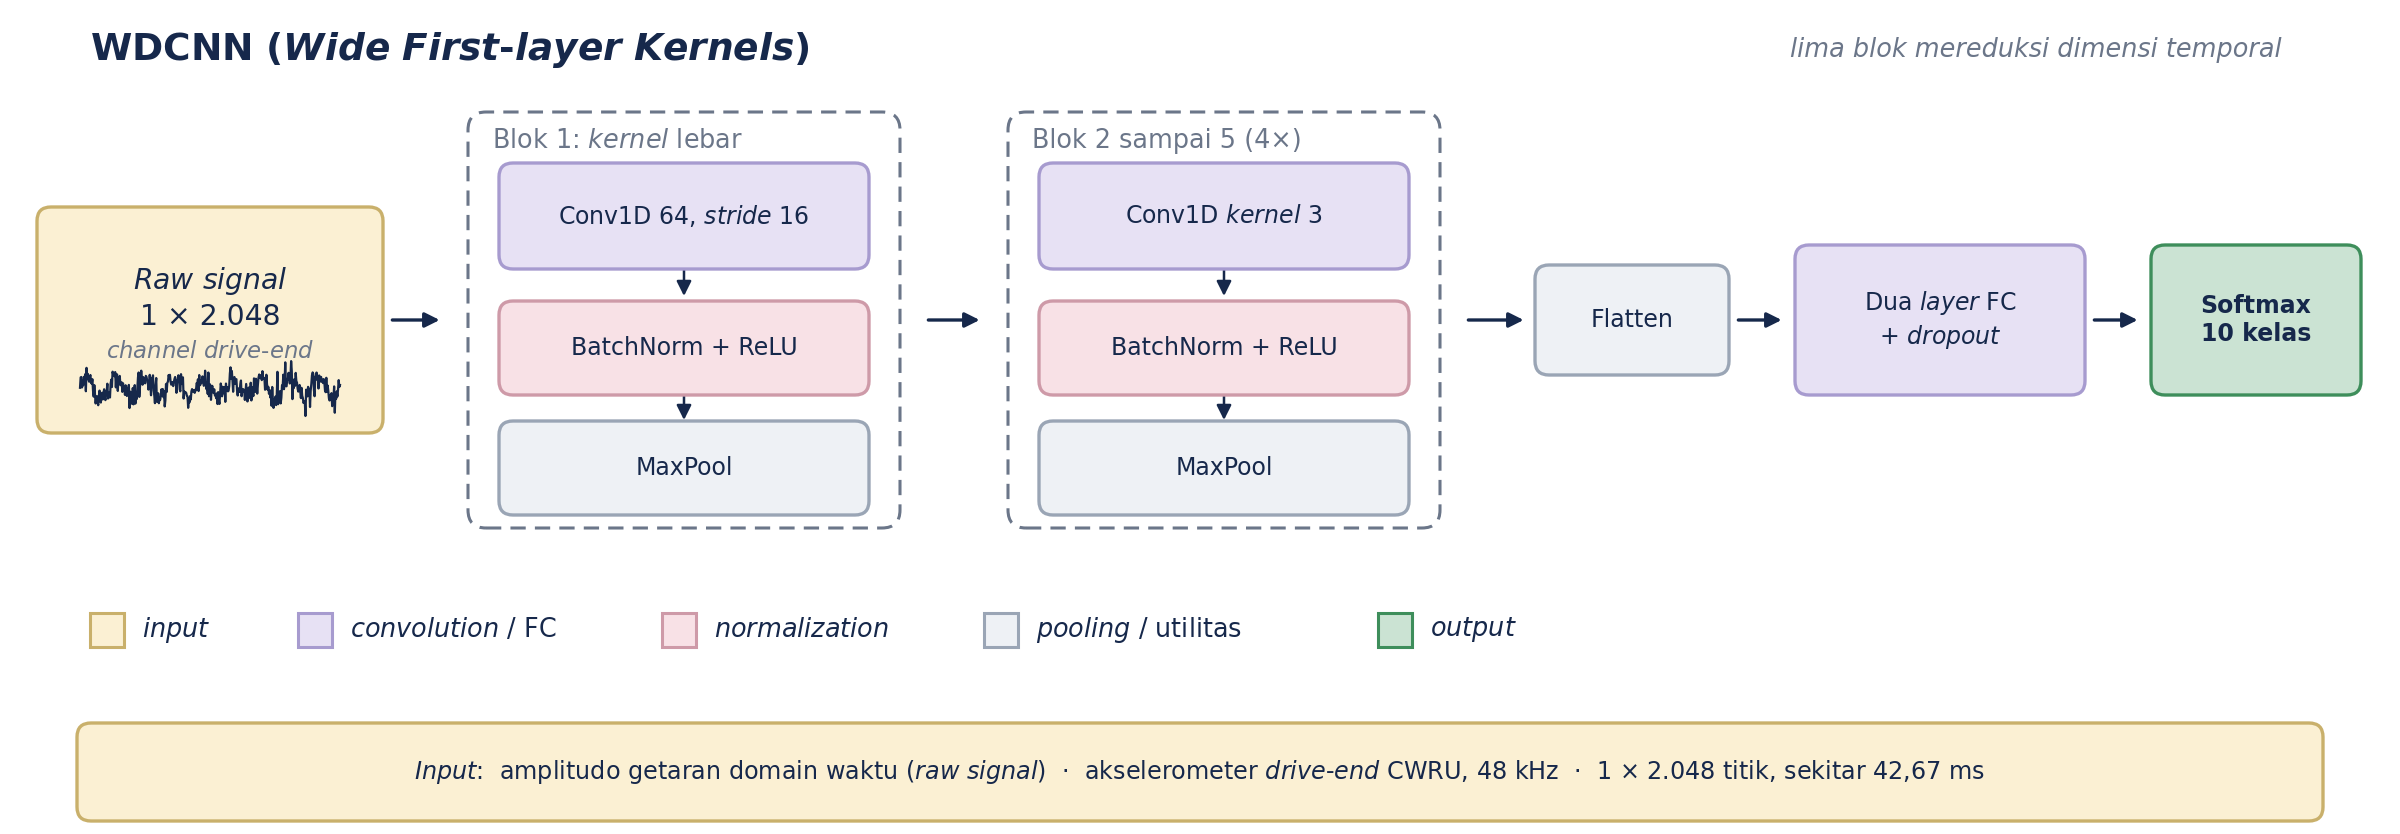
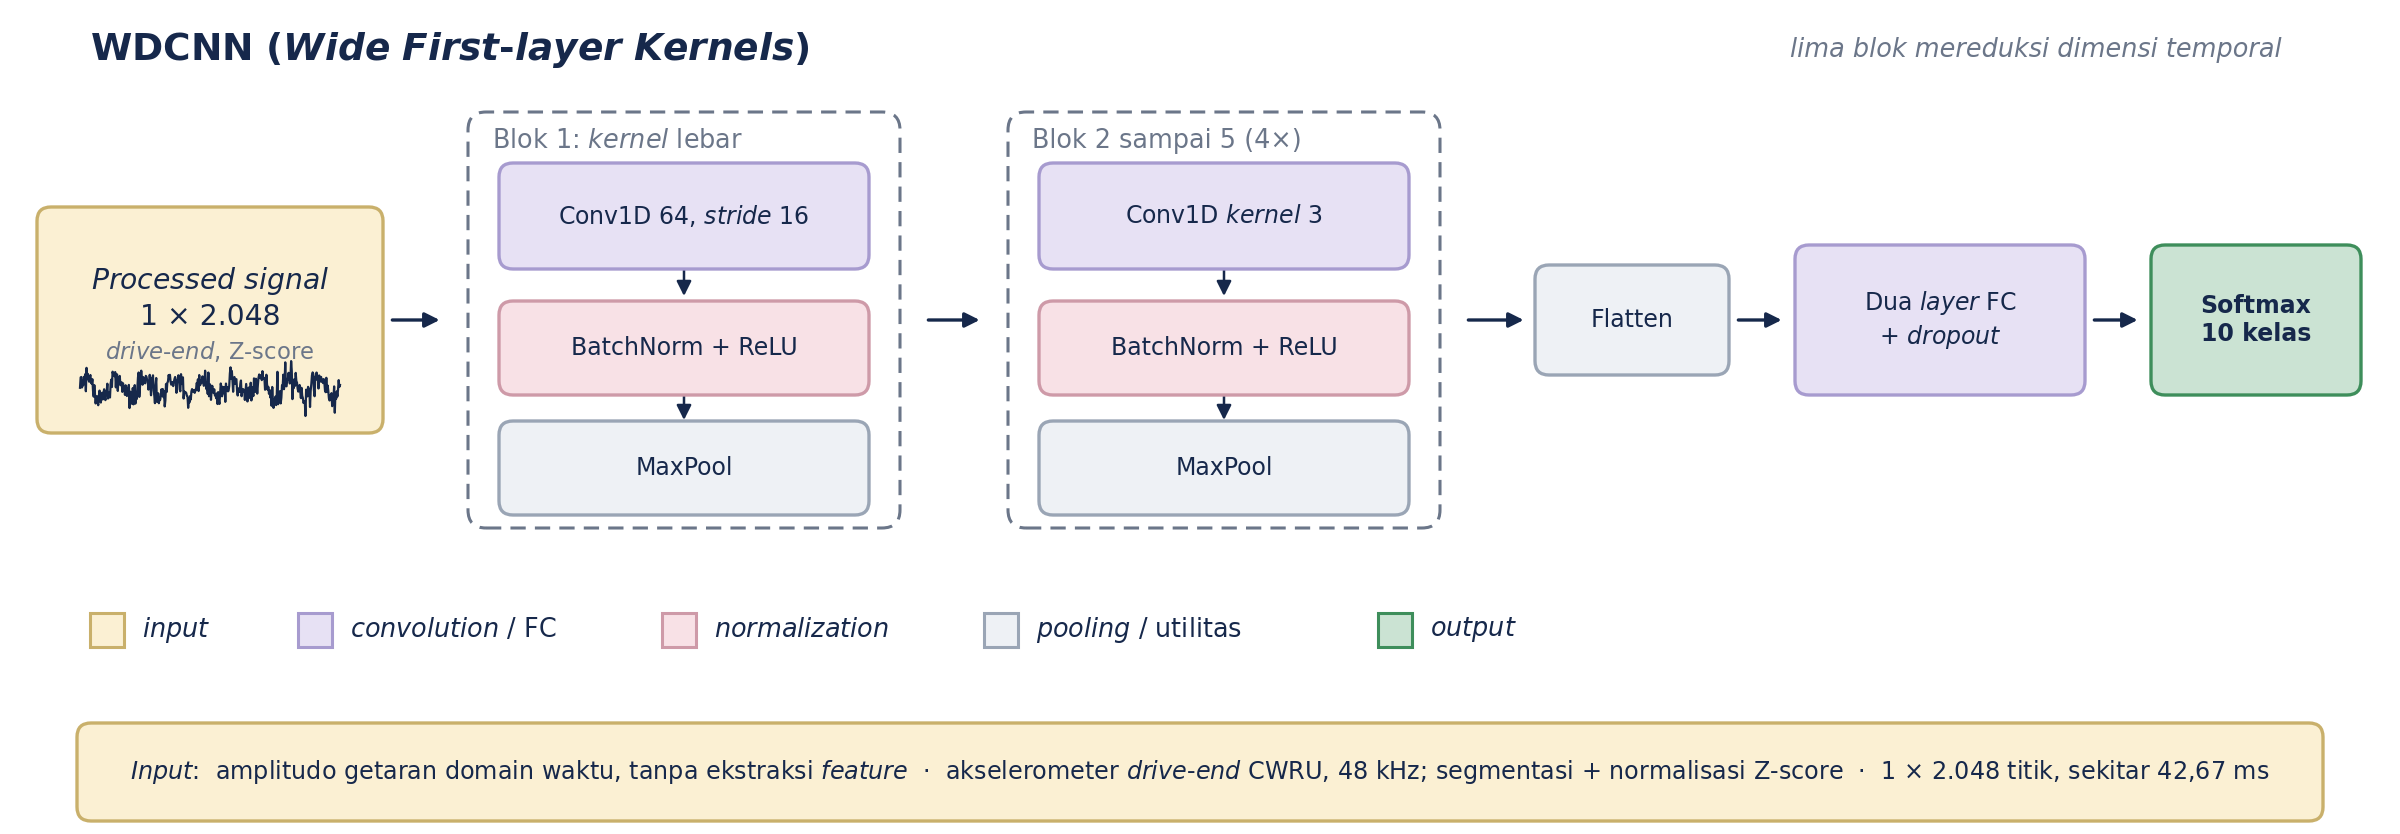
feat(presentation): label the WDCNN input as a processed signal
The input box said "Raw signal", but Notebook/gen_fsm_figures.py segments the
CWRU drive-end channel into 2.048-point windows and applies a Z-score fitted on
the training split before anything reaches Conv1D. Nothing is raw by the time
the network sees it; what is absent is feature engineering, not preprocessing.

Both WDCNN diagrams now read "Processed signal 1 × 2.048 / drive-end, Z-score",
and the caption strip says "tanpa ekstraksi feature ... segmentasi + normalisasi
Z-score" so the distinction is explicit.

The positioning term "raw signal" is left alone everywhere else: in Tabel I.1
and the novelty claims it means "no hand-crafted features", which is still true.

Changed region(s): [[0.0625, 0.9041, 0.9375, 0.9353], [0.0312, 0.3118, 0.125, 0.3741], [0.0312, 0.4053, 0.125, 0.4365]]

diff --git a/presentation/tools/render_diagrams.py b/presentation/tools/render_diagrams.py
@@ -258,8 +258,8 @@ INPUT_SPEC: dict[str, tuple[str, str, str]] = {
         "[[window]] 64 rekaman (PHM2012); 32 (XJTU-SY)",
     ),
     "wdcnn_full": (
-        "amplitudo getaran domain waktu ([[raw signal]])",
-        "akselerometer [[drive-end]] CWRU, 48 kHz",
+        "amplitudo getaran domain waktu, tanpa ekstraksi [[feature]]",
+        "akselerometer [[drive-end]] CWRU, 48 kHz; segmentasi + normalisasi Z-score",
         "1 × 2.048 titik, sekitar 42,67 ms",
     ),
     "shap_fsm_pipeline": (
@@ -646,7 +646,7 @@ def wdcnn_full():
     fig, ax = new_fig(12.0, 3.55, strip_pad("wdcnn_full"))
     my = 1.95
 
-    box(ax, 1.05, my, 1.70, 1.10, "[[Raw signal]]\n1 × 2.048", kind="input", sub="[[channel]] [[drive-end]]")
+    box(ax, 1.05, my, 1.70, 1.10, "[[Processed signal]]\n1 × 2.048", kind="input", sub="[[drive-end]], Z-score")
     waveform(ax, 0.40, my - 0.34, 1.30, 0.28, seed=11)
     arrow(ax, (1.92, my), (2.24, my))
 
@@ -694,8 +694,8 @@ def wdcnn_manuscript():
     ax.text(0.10, 3.96, "WDCNN ([[Wide First-layer Kernels]])", ha="left", va="center",
             fontsize=FS_TITLE, color=INK, fontweight="bold")
 
-    box(ax, 0.80, my1, 1.36, 0.92, "[[Raw signal]]\n1 × 2.048", kind="input",
-        fs=9, sub="[[channel]] [[drive-end]]")
+    box(ax, 0.80, my1, 1.36, 0.92, "[[Processed signal]]\n1 × 2.048", kind="input",
+        fs=9, sub="[[drive-end]], Z-score")
     waveform(ax, 0.22, my1 - 0.30, 1.16, 0.22, seed=11)
     arrow(ax, (1.50, my1), (1.86, my1))
 
